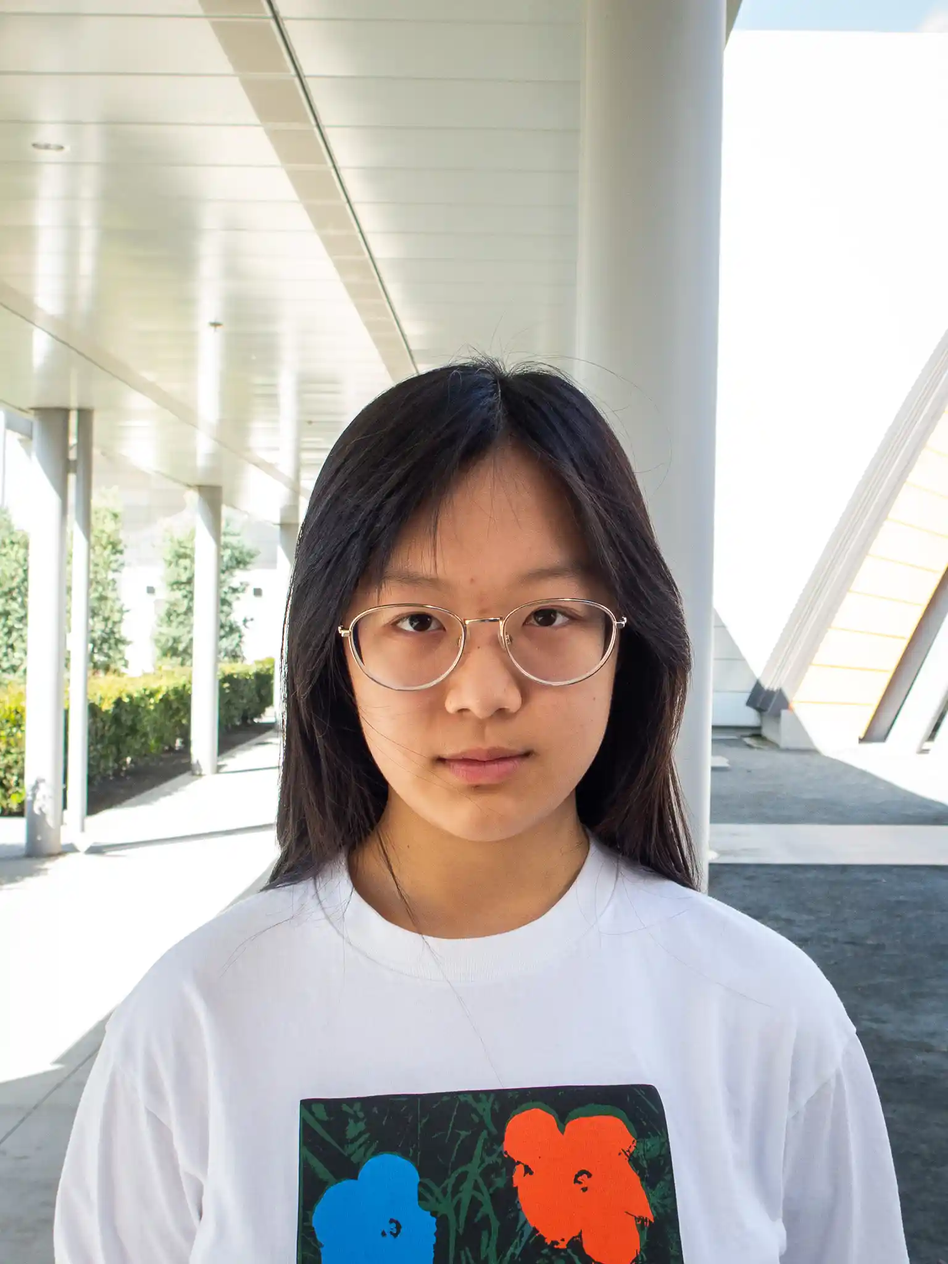
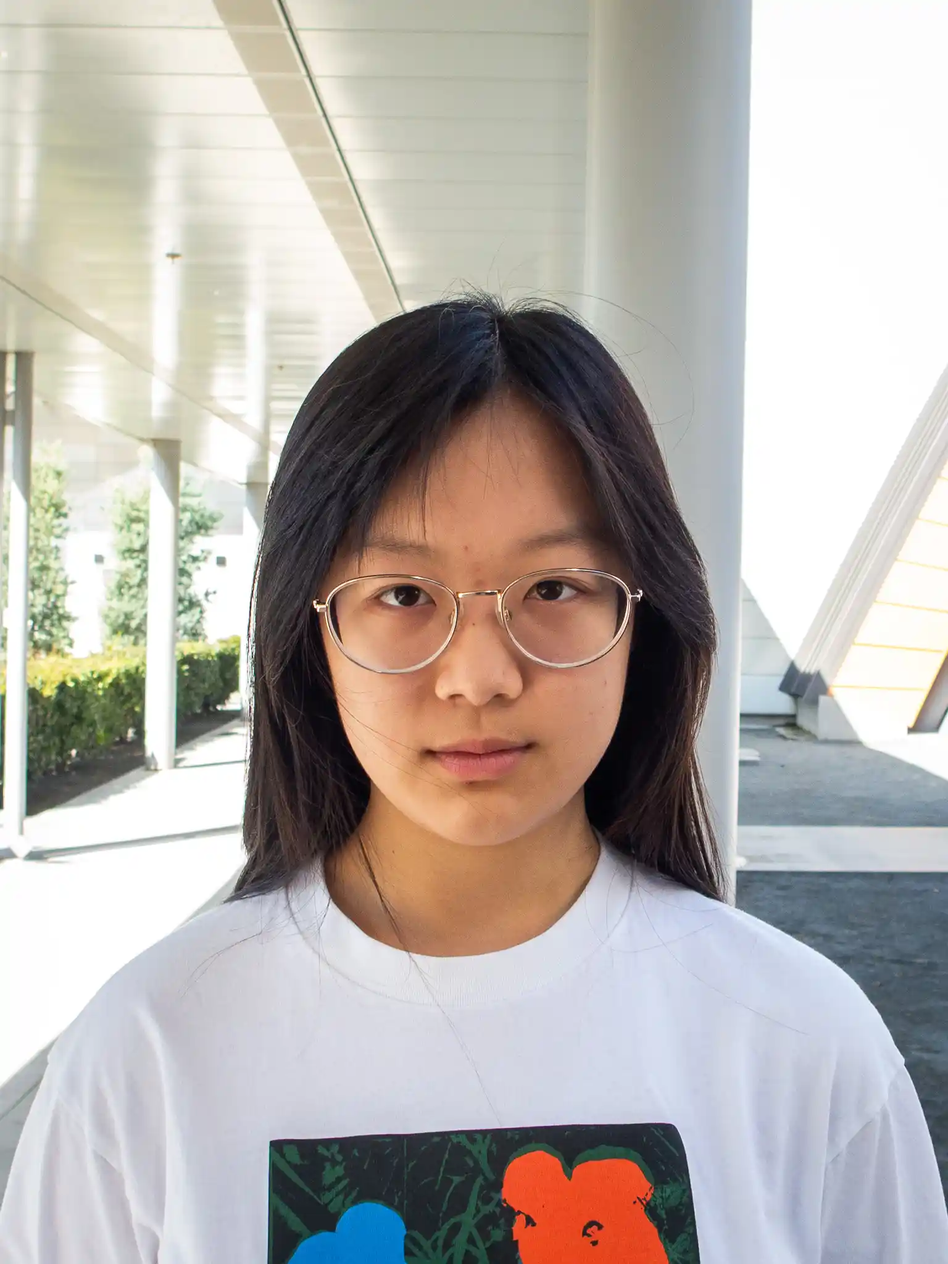
Add 11 headshots, 4 recropped, 3 survey responses

diff --git a/index.html b/index.html
@@ -1225,7 +1225,7 @@ function loadD3() {
 
 /* ── People with stock portrait images ── */
 const people = [
-  {img:'',name:'Nyala Ali',role:'_____ — _____',ig:'@_____',email:'',birthday:'',quote:'Dropped the wave runners now we run the wave',quoteBy:'goat',bio:'Nyala is committed to _____ for _____, planning to _____. Their favorite memory has been _____ and they will miss _____ the most. They are most excited for _____ in the next 10 years.'},
+  {img:'images/Headshots/Nyala A.webp',name:'Nyala Ali',role:'_____ — _____',ig:'@_____',email:'',birthday:'',quote:'Dropped the wave runners now we run the wave',quoteBy:'goat',bio:'Nyala is committed to _____ for _____, planning to _____. Their favorite memory has been _____ and they will miss _____ the most. They are most excited for _____ in the next 10 years.'},
   {img:'',name:'Janae Alsabti',role:'_____ — _____',ig:'@_____',email:'',birthday:'',quote:'Dropped the wave runners now we run the wave',quoteBy:'goat',bio:'Janae is committed to _____ for _____, planning to _____. Their favorite memory has been _____ and they will miss _____ the most. They are most excited for _____ in the next 10 years.'},
   {img:'images/Headshots/Omar A.webp',name:'Omar Anees',role:'_____ — _____',ig:'@_____',email:'',birthday:'',quote:'Dropped the wave runners now we run the wave',quoteBy:'goat',bio:'Omar is committed to _____ for _____, planning to _____. Their favorite memory has been _____ and they will miss _____ the most. They are most excited for _____ in the next 10 years.'},
   {img:'images/Headshots/Kai A.webp',name:'Kai Arellano',role:'IVC — Pre-Veterinary',ig:'@kai.arellano',email:'kaia4181@mytusd.org',birthday:'June 20, 2008',quote:'Obsession beats talent every time.',quoteBy:'Adam Sandler',bio:'Kai is headed to IVC, hoping to one day work as a veterinarian and open his own clinic. His favorite memory was the Los Alamos trip with the boys. He will miss hanging out and having fun in class with his friends the most.'},
@@ -1236,17 +1236,17 @@ const people = [
   {img:'images/Headshots/Andrew C.webp',name:'Andrew Camacho',role:'_____ — _____',ig:'@_____',email:'',birthday:'',quote:'Dropped the wave runners now we run the wave',quoteBy:'goat',bio:'Andrew is committed to _____ for _____, planning to _____. Their favorite memory has been _____ and they will miss _____ the most. They are most excited for _____ in the next 10 years.'},
   {img:'images/Headshots/Brandon Ca.webp',name:'Brandon Campos',role:'IVC — College',ig:'@brandoncamp.os',email:'brandonac4292@gmail.com',birthday:'September 16, 2008',quote:"Don't be a judger bro.",quoteBy:'Ken Carson',bio:"Brandon is committed to IVC, planning to transfer. His favorite memory was Kai vs. Jesiah. He will miss his friends the most and is most excited for traveling and exploring."},
   {img:'images/Headshots/Santiago C.webp',name:'Santiago Cardenas-Huerta',role:'IVC',ig:'@Santiago_cahu',email:'Santiagoc4183@mytusd.org',birthday:'April 26, 2008',quote:'God is absolutely above all, trust in Him and you\'ll end up where He wants you to be.',quoteBy:'',bio:'Santiago is committed to IVC, planning to get married, start a family, and achieve financial stability. His favorite memory was with the boys. He will miss the bonds and friendships he has built and is most excited to figure things out.'},
-  {img:'images/Headshots/Carson C.webp',name:'Carson Carter',role:'_____ — _____',ig:'@_____',email:'',birthday:'',quote:'Dropped the wave runners now we run the wave',quoteBy:'goat',bio:'Carson is committed to _____ for _____, planning to _____. Their favorite memory has been _____ and they will miss _____ the most. They are most excited for _____ in the next 10 years.'},
+  {img:'images/Headshots/Carson C.webp',name:'Carson Carter',role:'4 Year College — Business',ig:'@carsoniancarter',email:'carsonmaccarter@outlook.com',birthday:'February 13, 2008',quote:"Don't cry because it's over, smile because it happened",quoteBy:'Dr. Seuss',bio:"Carson is headed to a 4-year college, planning to major in business and eventually own a company or work in investment/consulting. His favorite memory was being in ASB. He will miss all his friends he talks to every day and is most excited for college life."},
   {img:'',name:'Rebecca Casillas',role:'_____ — _____',ig:'@_____',email:'',birthday:'',quote:'Dropped the wave runners now we run the wave',quoteBy:'goat',bio:'Rebecca is committed to _____ for _____, planning to _____. Their favorite memory has been _____ and they will miss _____ the most. They are most excited for _____ in the next 10 years.'},
   {img:'images/Headshots/Richard C.webp',name:'Richard Casillas',role:'_____ — _____',ig:'@_____',email:'',birthday:'',quote:'Dropped the wave runners now we run the wave',quoteBy:'goat',bio:'Richard is committed to _____ for _____, planning to _____. Their favorite memory has been _____ and they will miss _____ the most. They are most excited for _____ in the next 10 years.'},
   {img:'images/Headshots/Jayden C.webp',name:'Jayden Cerda',role:'IVC — Photography',ig:'@Vibewth.Jayden',email:'Cerdajay792@gmail.com',birthday:'July 27, 2008',quote:'You will never truly know the value of a moment until it becomes a memory',quoteBy:'',bio:'Jayden is committed to IVC, planning to become a photographer like Larry Chen — or a firefighter. His favorite memory was ESC. He will miss seeing his people every day and is most excited to stop waking up early for school.'},
-  {img:'',name:'Baran Cerrahoglu',role:'_____ — _____',ig:'@_____',email:'',birthday:'',quote:'Dropped the wave runners now we run the wave',quoteBy:'goat',bio:'Baran is committed to _____ for _____, planning to _____. Their favorite memory has been _____ and they will miss _____ the most. They are most excited for _____ in the next 10 years.'},
+  {img:'images/Headshots/Baran C.webp',name:'Baran Cerrahoglu',role:'_____ — _____',ig:'@_____',email:'',birthday:'',quote:'Dropped the wave runners now we run the wave',quoteBy:'goat',bio:'Baran is committed to _____ for _____, planning to _____. Their favorite memory has been _____ and they will miss _____ the most. They are most excited for _____ in the next 10 years.'},
   {img:'images/Headshots/Brandon Ch.webp',name:'Brandon Chang',role:'_____ — _____',ig:'@_____',email:'',birthday:'',quote:'Dropped the wave runners now we run the wave',quoteBy:'goat',bio:'Brandon is committed to _____ for _____, planning to _____. Their favorite memory has been _____ and they will miss _____ the most. They are most excited for _____ in the next 10 years.'},
   {img:'images/Headshots/Max C.webp',name:'Max Chang',role:'Community College — College',ig:'@maxiqad',email:'maxchang219@gmail.com',birthday:'May 25, 2008',quote:'Attendance was optional. So was I',quoteBy:'',bio:"Max is headed to community college, planning to finish and then travel the world. His favorite memory was pie-ing a senior. He will miss hanging with friends and is most excited for summer."},
   {img:'images/Headshots/Luna C.webp',name:'Luna Chen',role:'_____— _____',ig:'@_____',email:'',birthday:'',quote:'Dropped the wave runners now we run the wave',quoteBy:'goat',bio:'Luna is committed to _____ for _____, planning to _____. Their favorite memory has been _____ and they will miss _____ the most. They are most excited for _____ in the next 10 years.'},
   {img:'',name:'Ellie Chung',role:'_____ — _____',ig:'@_____',email:'',birthday:'',quote:'Dropped the wave runners now we run the wave',quoteBy:'goat',bio:'Ellie is committed to _____ for _____, planning to _____. Their favorite memory has been _____ and they will miss _____ the most. They are most excited for _____ in the next 10 years.'},
   {img:'images/Headshots/Matt C.webp',name:'Matt Ciecek',role:'_____ — _____',ig:'@_____',email:'',birthday:'',quote:'Dropped the wave runners now we run the wave',quoteBy:'goat',bio:'Matt is committed to _____ for _____, planning to _____. Their favorite memory has been _____ and they will miss _____ the most. They are most excited for _____ in the next 10 years.'},
-  {img:'',name:'Amani Clark',role:'College — University of Texas at Dallas',ig:'@dac_12.4',email:'amanic4060@mytusd.org',birthday:'October 24, 2007',quote:'Keep trying and if you can\'t come up with a solution, game until one comes to you.',quoteBy:'',bio:'Amani is headed to the University of Texas at Dallas, planning to go into business and land a solid job. His favorite memory was karaoke at lunch. He will miss his friends the most and is most excited to make brisket and kick off a new chapter in college.'},
+  {img:'images/Headshots/Amani C.webp',name:'Amani Clark',role:'College — University of Texas at Dallas',ig:'@dac_12.4',email:'amanic4060@mytusd.org',birthday:'October 24, 2007',quote:'Keep trying and if you can\'t come up with a solution, game until one comes to you.',quoteBy:'',bio:'Amani is headed to the University of Texas at Dallas, planning to go into business and land a solid job. His favorite memory was karaoke at lunch. He will miss his friends the most and is most excited to make brisket and kick off a new chapter in college.'},
   {img:'images/Headshots/Christopher C.webp',name:'Chris Cowdell',role:'LDS Mission → IVC / UCI — Storytelling',ig:'@chrisandwich_crc',email:'christopherc3090@mytusd.org',birthday:'April 18, 2007',quote:'Being weak is nothing to be ashamed of. Staying weak is.',quoteBy:'',bio:'Chris is departing on a two-year mission for the Church of Jesus Christ of Latter-Day Saints after graduation, then plans to attend college — possibly on a track and field scholarship, or IVC then UCI, pursuing the art of storytelling. His favorite memory was educating students in the weight room through the Fitness Together club. He will miss the teachers and friends he got to know and is most excited to finally tell the stories he has been writing for over eight years.'},
   {img:'',name:'Marie-France Demuro',role:'Community College',ig:'@deffinetly_not_marie',email:'marie-franced2621@mytusd.org',birthday:'April 14, 2008',quote:'From you, 4 years ago.',quoteBy:'',bio:'Marie-France is heading to community college, unsure of exactly what or where, but certain she will be happy doing what feels right. Her favorite memory was realizing she actually has things to contribute. She will miss the sense of familiarity she built but is ready for a new environment and new opportunities.'},
   {img:'',name:'Jianna DiLellio',role:'UCI — Communication',ig:'@jiannad8',email:'jidilellio@gmail.com',birthday:'July 26, 2008',quote:'Sometimes you don\'t know the value of a moment until it becomes a memory.',quoteBy:'',bio:'Jianna is committed to UCI, planning to find a career and build her independence. Her favorite memory was Senior Sunrise. She will miss the teachers and students the most and is most excited for gaining independence and exploring topics she\'s passionate about.'},
@@ -1261,7 +1261,7 @@ const people = [
   {img:'images/Headshots/Michael H.webp',name:'Michael Hsieh',role:'UCSD — Pre-Med',ig:'@codeblue888',email:'michaelh4536@mytusd.org',birthday:'September 14, 2008',quote:'Fun\'s in the challenge',quoteBy:'',bio:'Michael is committed to UCSD, planning for medical residency (or the homeless life). His favorite memory was making jokes in Mrs. Byun\'s Algebra class with his friends. He will miss seeing friends daily and is most excited for new experiences and growth.'},
   {img:'images/Headshots/Matthew I.webp',name:'Matthew Ibarra',role:'_____ — _____',ig:'@_____',email:'',birthday:'',quote:'Dropped the wave runners now we run the wave',quoteBy:'goat',bio:'Matthew is committed to _____ for _____, planning to _____. Their favorite memory has been _____ and they will miss _____ the most. They are most excited for _____ in the next 10 years.'},
   {img:'',name:'Danya Ibrahim',role:'_____ — _____',ig:'@_____',email:'',birthday:'',quote:'Dropped the wave runners now we run the wave',quoteBy:'goat',bio:'Danya is committed to _____ for _____, planning to _____. Their favorite memory has been _____ and they will miss _____ the most. They are most excited for _____ in the next 10 years.'},
-  {img:'',name:'Amreen Islam',role:'UCLA — Pre-Law',ig:'@amreenn.i',email:'amreenislam75@gmail.com',birthday:'September 19, 2008',quote:'Everything happens for a reason',quoteBy:'',bio:'Amreen is committed to UCLA, planning to go to law school and become a lawyer or work with the government. Her favorite memory was walking around during class and hanging out at pep rallies. She will miss her friends the most and is most excited to meet new people.'},
+  {img:'images/Headshots/Amreen I.webp',name:'Amreen Islam',role:'UCLA — Pre-Law',ig:'@amreenn.i',email:'amreenislam75@gmail.com',birthday:'September 19, 2008',quote:'Everything happens for a reason',quoteBy:'',bio:'Amreen is committed to UCLA, planning to go to law school and become a lawyer or work with the government. Her favorite memory was walking around during class and hanging out at pep rallies. She will miss her friends the most and is most excited to meet new people.'},
   {img:'images/Headshots/Farishta I.webp',name:'Farishta Islam',role:'_____ — _____',ig:'@_____',email:'',birthday:'',quote:'Dropped the wave runners now we run the wave',quoteBy:'goat',bio:'Farishta is committed to _____ for _____, planning to _____. Their favorite memory has been _____ and they will miss _____ the most. They are most excited for _____ in the next 10 years.'},
   {img:'',name:'Uma Joshi',role:'_____ — _____',ig:'@_____',email:'',birthday:'',quote:'Dropped the wave runners now we run the wave',quoteBy:'goat',bio:'Uma is committed to _____ for _____, planning to _____. Their favorite memory has been _____ and they will miss _____ the most. They are most excited for _____ in the next 10 years.'},
   {img:'images/Headshots/Josh K.webp',name:'Josh Kim',role:'_____ — _____',ig:'@_____',email:'',birthday:'',quote:'Dropped the wave runners now we run the wave',quoteBy:'goat',bio:'Josh is committed to _____ for _____, planning to _____. Their favorite memory has been _____ and they will miss _____ the most. They are most excited for _____ in the next 10 years.'},
@@ -1271,8 +1271,8 @@ const people = [
   {img:'images/Headshots/Audrey L.webp',name:'Audrey Lee',role:'4 Year College — USC',ig:'@aud._lee',email:'audreyl6276@mytusd.org',birthday:'September 24, 2007',quote:'The world is more malleable than you think, and it\'s waiting for you to hammer it into shape.',quoteBy:'Bono',bio:'Audrey is headed to USC, planning to travel after graduation and live an emotionally fulfilling, socially impactful life. Her favorite memory was blasting music in the van to and from Bako with her friends and Mr. Moe. She will miss her teachers the most and is most excited to live in LA.'},
   {img:'images/Headshots/Brent L.webp',name:'Brent Limbo',role:'IVC → UCI — Engineering',ig:'@brentywho',email:'brentl2081@mytusd.org',birthday:'August 4, 2007',quote:'Don\'t lose focus.',quoteBy:'',bio:'Brent is headed to IVC with plans to transfer to UCI, aiming for a career in engineering — whether leading construction projects or doing quality maintenance work on machinery. His favorite memory was escaping point break with Sacha and Nathan. He will miss James the most.'},
   {img:'images/Headshots/Katally L.webp',name:'Katally Lin',role:'_____ — _____',ig:'@_____',email:'',birthday:'',quote:'Dropped the wave runners now we run the wave',quoteBy:'goat',bio:'Katally is committed to _____ for _____, planning to _____. Their favorite memory has been _____ and they will miss _____ the most. They are most excited for _____ in the next 10 years.'},
-  {img:'',name:'Ava Lorenzana',role:'_____ — _____',ig:'@_____',email:'',birthday:'',quote:'Dropped the wave runners now we run the wave',quoteBy:'goat',bio:'Ava is committed to _____ for _____, planning to _____. Their favorite memory has been _____ and they will miss _____ the most. They are most excited for _____ in the next 10 years.'},
-  {img:'',name:'Milo Madolora',role:'Kababayan at LMA Founder',ig:'@milomadatu',email:'milomadatu@gmail.com',birthday:'April 17, 2008',quote:'Everything I\'m not made me everything I am',quoteBy:'Ye',bio:'Milo Madolora is 99% committed to Northeastern University for Business Administration, planning to find a career in marketing. His favorite memory has been making beats in Mr. Jones\'s class and he will miss walking around the school with his friends the most. Milo is most excited for new experiences in the next 10 years.'},
+  {img:'images/Headshots/Ava L.webp',name:'Ava Lorenzana',role:'_____ — _____',ig:'@_____',email:'',birthday:'',quote:'Dropped the wave runners now we run the wave',quoteBy:'goat',bio:'Ava is committed to _____ for _____, planning to _____. Their favorite memory has been _____ and they will miss _____ the most. They are most excited for _____ in the next 10 years.'},
+  {img:'images/Headshots/Milo M.webp',name:'Milo Madolora',role:'Kababayan at LMA Founder',ig:'@milomadatu',email:'milomadatu@gmail.com',birthday:'April 17, 2008',quote:'Everything I\'m not made me everything I am',quoteBy:'Ye',bio:'Milo Madolora is 99% committed to Northeastern University for Business Administration, planning to find a career in marketing. His favorite memory has been making beats in Mr. Jones\'s class and he will miss walking around the school with his friends the most. Milo is most excited for new experiences in the next 10 years.'},
   {img:'images/Headshots/Murad M.webp',name:'Murad Malik',role:'_____ — _____',ig:'@_____',email:'',birthday:'',quote:'Dropped the wave runners now we run the wave',quoteBy:'goat',bio:'Murad is committed to _____ for _____, planning to _____. Their favorite memory has been _____ and they will miss _____ the most. They are most excited for _____ in the next 10 years.'},
   {img:'images/Headshots/Aryanna M.webp',name:'Aryanna Martinez',role:'_____ — _____',ig:'@_____',email:'',birthday:'',quote:'Dropped the wave runners now we run the wave',quoteBy:'goat',bio:'Ary is committed to _____ for _____, planning to _____. Their favorite memory has been _____ and they will miss _____ the most. They are most excited for _____ in the next 10 years.'},
   {img:'images/Headshots/Cooper M.webp',name:'Cooper Mayhew',role:'Embry-Riddle Aeronautical University',ig:'@_____',email:'cooperm4484@mytusd.org',birthday:'',quote:'Dropped the wave runners now we run the wave',quoteBy:'goat',bio:'Cooper is committed to Embry-Riddle Aeronautical University (Prescott Campus).'},
@@ -1286,9 +1286,9 @@ const people = [
   {img:'images/Headshots/Shirom M.webp',name:'Shirom Mukherjee',role:'_____ — _____',ig:'@_____',email:'',birthday:'',quote:'Dropped the wave runners now we run the wave',quoteBy:'goat',bio:'Shirom is committed to _____ for _____, planning to _____. Their favorite memory has been _____ and they will miss _____ the most. They are most excited for _____ in the next 10 years.'},
   {img:'images/Headshots/Jeromy M.webp',name:'Jeromy Munguia',role:'_____ — _____',ig:'@_____',email:'',birthday:'',quote:'Dropped the wave runners now we run the wave',quoteBy:'goat',bio:'Jeromy is committed to _____ for _____, planning to _____. Their favorite memory has been _____ and they will miss _____ the most. They are most excited for _____ in the next 10 years.'},
   {img:'images/Headshots/Samana N.webp',name:'Samana Nadig',role:'_____ — _____',ig:'@_____',email:'',birthday:'',quote:'Dropped the wave runners now we run the wave',quoteBy:'goat',bio:'Samana is committed to _____ for _____, planning to _____. Their favorite memory has been _____ and they will miss _____ the most. They are most excited for _____ in the next 10 years.'},
-  {img:'',name:'Evelynn Ngo',role:'_____ — _____',ig:'@_____',email:'',birthday:'',quote:'Dropped the wave runners now we run the wave',quoteBy:'goat',bio:'Evelynn is committed to _____ for _____, planning to _____. Their favorite memory has been _____ and they will miss _____ the most. They are most excited for _____ in the next 10 years.'},
+  {img:'images/Headshots/Evelynn N.webp',name:'Evelynn Ngo',role:'_____ — _____',ig:'@_____',email:'',birthday:'',quote:'Dropped the wave runners now we run the wave',quoteBy:'goat',bio:'Evelynn is committed to _____ for _____, planning to _____. Their favorite memory has been _____ and they will miss _____ the most. They are most excited for _____ in the next 10 years.'},
   {img:'images/Headshots/Mason N.webp',name:'Mason Nguyen',role:'Cal State Fullerton — Accounting',ig:'@mason_rnguyen',email:'itsmemason18@gmail.com',birthday:'April 14, 2008',quote:'You cannot control when life knocks you down. But you can control when to get back up.',quoteBy:'',bio:'Mason is committed to Cal State Fullerton majoring in accounting, planning to attend grad school to convert into data science and build a career in performance marketing and AI. His favorite memory was running around with Matt C during senior assassin and almost pulling his hamstring. He will miss his friends and teachers and is most excited to move on to the next chapter.'},
-  {img:'images/Headshots/Jayden O.webp',name:'Jayden Ohashi',role:'_____ — _____',ig:'@_____',email:'',birthday:'',quote:'Dropped the wave runners now we run the wave',quoteBy:'goat',bio:'Jayden is committed to _____ for _____, planning to _____. Their favorite memory has been _____ and they will miss _____ the most. They are most excited for _____ in the next 10 years.'},
+  {img:'images/Headshots/Jayden O.webp',name:'Jayden Ohashi',role:'IVC — Medical Imaging',ig:'@jayden_ohashi21',email:'ohashijayden21@gmail.com',birthday:'May 21, 2008',quote:'Stay hard.',quoteBy:'',bio:"Jayden is taking a gap year to pursue college volleyball — if that doesn't pan out, he's headed to IVC to study medical imaging. His favorite memory was Sacha doing his thing in the parking lot. He will miss the friends he made along the way and is most excited to pursue his dreams."},
   {img:'images/Headshots/Sacha P.webp',name:'Sacha Papadakis',role:'SDSU — Sales',ig:'@sachawhen',email:'sachap4791@mytusd.org',birthday:'June 16, 2008',quote:'Ok you the king? Burger king.',quoteBy:'',bio:'Sacha is committed to SDSU, planning to go into sales. His favorite memory was the Muslims vs Christians basketball game. He will miss Milo the most.'},
   {img:'',name:'Nima Partow',role:'_____ — _____',ig:'@_____',email:'',birthday:'',quote:'Dropped the wave runners now we run the wave',quoteBy:'goat',bio:'Nima is committed to _____ for _____, planning to _____. Their favorite memory has been _____ and they will miss _____ the most. They are most excited for _____ in the next 10 years.'},
   {img:'images/Headshots/Connor P.webp',name:'Connor Paxton',role:'_____ — _____',ig:'@_____',email:'',birthday:'',quote:'Dropped the wave runners now we run the wave',quoteBy:'goat',bio:'Connor is committed to _____ for _____, planning to _____. Their favorite memory has been _____ and they will miss _____ the most. They are most excited for _____ in the next 10 years.'},
@@ -1296,13 +1296,13 @@ const people = [
   {img:'images/Headshots/Seth P.webp',name:'Seth Pham',role:'_____ — _____',ig:'@_____',email:'',birthday:'',quote:'Dropped the wave runners now we run the wave',quoteBy:'goat',bio:'Seth is committed to _____ for _____, planning to _____. Their favorite memory has been _____ and they will miss _____ the most. They are most excited for _____ in the next 10 years.'},
   {img:'images/Headshots/Kiyomi P.webp',name:'Kiyomi Pizarro',role:'_____ — _____',ig:'@_____',email:'',birthday:'',quote:'Dropped the wave runners now we run the wave',quoteBy:'goat',bio:'Kiyomi is committed to _____ for _____, planning to _____. Their favorite memory has been _____ and they will miss _____ the most. They are most excited for _____ in the next 10 years.'},
   {img:'',name:'Aiza Qureshi',role:'_____ — _____',ig:'@_____',email:'',birthday:'',quote:'Dropped the wave runners now we run the wave',quoteBy:'goat',bio:'Aiza is committed to _____ for _____, planning to _____. Their favorite memory has been _____ and they will miss _____ the most. They are most excited for _____ in the next 10 years.'},
-  {img:'https://media.licdn.com/dms/image/v2/D4E03AQEJB8NVvyanBg/profile-displayphoto-shrink_200_200/profile-displayphoto-shrink_200_200/0/1726208211125?e=2147483647&v=beta&t=BV1Eix_RjkDMIU3LPjpib-XFGHNnoKZH-bCoegaXGaM',name:'Artin Rastegar',role:'UC Berkeley — Business Administration',ig:'@artin_4097',email:'',birthday:'Jan 30, 2008',quote:'Dropped the wave runners now we run the wave',quoteBy:'goat',bio:'Artin Rastegar is committed to UC Berkeley for Business Administration, planning to _____. His favorite memory has been ____ and he will miss _____ the most. Artin is most excited for ____ in the next 10 years.'},
+  {img:'images/Headshots/Artin R.webp',name:'Artin Rastegar',role:'UC Berkeley — Entrepreneurship',ig:'@artin_4097',email:'artinrastegar3@gmail.com',birthday:'August 13, 2007',quote:'When the tough gets tough, the tough gets going.',quoteBy:'',bio:'Artin is committed to UC Berkeley, majoring in Entrepreneurship, planning to become an affluent venture capitalist and startup founder. His favorite memory was putting on music and playing ping pong at the gym. He will miss his classmates and teachers the most and is most excited to socialize and meet new people.'},
   {img:'images/Headshots/Rayan R.webp',name:'Rayan Rouhizad',role:'IVC → UC — Data Science',ig:'@nbgr4yan',email:'rayanrouhizad111@gmail.com',birthday:'June 25, 2008',quote:'Not every day is a good day, but there\'s good in every day.',quoteBy:'',bio:'Rayan is committed to IVC, planning to transfer to a UC for Data Science, then get his MBA and work in marketing or AI. His favorite memory was the multicultural fair — they last-minute left school to buy all the ingredients the day of, with seniors helping make the food. He will miss having something to do every day and ditching class to walk around campus with his friends.'},
   {img:'images/Headshots/Jackson R.webp',name:'Jackson Rowland',role:'Santa Ana College — Welding',ig:'',email:'jacksonr5591@mytusd.org',birthday:'December 16, 2007',quote:'There are things in this world that you\'re not meant to see, however if you are able to grasp such a thing then go for it!',quoteBy:'',bio:'Jackson is headed to Santa Ana College to study welding, with plans to weld and build a game on the side — and a few more things he\'s keeping to himself. His favorite memory was all of them. He has no regrets and is ready for whatever comes next.'},
   {img:'images/Headshots/Santino S.webp',name:'Santino Sebastian Salonga',role:'_____ — _____',ig:'@_____',email:'',birthday:'',quote:'Dropped the wave runners now we run the wave',quoteBy:'goat',bio:'Santino is committed to _____ for _____, planning to _____. Their favorite memory has been _____ and they will miss _____ the most. They are most excited for _____ in the next 10 years.'},
   {img:'images/Headshots/Josh S.webp',name:'Joshua Saltzer',role:'IVC — College',ig:'@joshuasaltzer',email:'joshuas2412@mytusd.org',birthday:'February 5, 2008',quote:'Spealing is optional',quoteBy:'',bio:'Joshua is committed to IVC, planning to work a steady job and live life wherever it takes him. His favorite memories were making friends, turning 18 to sign out early, and Music Tech with Mr. Jones. He will miss all the friends he made at Legacy the most.'},
   {img:'images/Headshots/Nathan S.webp',name:'Nathan Saltzer',role:'_____ — _____',ig:'@_____',email:'',birthday:'',quote:'Dropped the wave runners now we run the wave',quoteBy:'goat',bio:'Nathan is committed to _____ for _____, planning to _____. Their favorite memory has been _____ and they will miss _____ the most. They are most excited for _____ in the next 10 years.'},
-  {img:'',name:'Ella Schubert',role:'_____ — _____',ig:'@_____',email:'',birthday:'',quote:'Dropped the wave runners now we run the wave',quoteBy:'goat',bio:'Ella is committed to _____ for _____, planning to _____. Their favorite memory has been _____ and they will miss _____ the most. They are most excited for _____ in the next 10 years.'},
+  {img:'images/Headshots/Ella S.webp',name:'Ella Schubert',role:'_____ — _____',ig:'@_____',email:'',birthday:'',quote:'Dropped the wave runners now we run the wave',quoteBy:'goat',bio:'Ella is committed to _____ for _____, planning to _____. Their favorite memory has been _____ and they will miss _____ the most. They are most excited for _____ in the next 10 years.'},
   {img:'',name:'Iffah Sheikh',role:'_____ — _____',ig:'@_____',email:'',birthday:'',quote:'Dropped the wave runners now we run the wave',quoteBy:'goat',bio:'Iffah is committed to _____ for _____, planning to _____. Their favorite memory has been _____ and they will miss _____ the most. They are most excited for _____ in the next 10 years.'},
   {img:'',name:'Arnav Sheth',role:'4 Year College — Stanford',ig:'@arnav.sheth19',email:'arnavs5585@mytusd.org',birthday:'November 19, 2007',quote:'',quoteBy:'',bio:'Arnav is headed to Stanford, planning to launch a Y-Combinator startup with Artin Rastegar. His favorite memory was Music Tech class. He is most excited to dive into robotics and explore new opportunities.'},
   {img:'images/Headshots/Nancy S.webp',name:'Nancy Silva',role:'University of San Francisco',ig:'@nancesilvaa',email:'nancysilv1231@gmail.com',birthday:'December 30, 2007',quote:'The question isn\'t what are we going to do — the question is what aren\'t we going to do?',quoteBy:'Ferris Bueller',bio:'Nancy is committed to the University of San Francisco, planning to move to SF for college. In ten years she pictures herself in San Diego — married, beachside, with some chickens. Her favorite memory was with Alice Nguyen. She will miss the weekly "Sneakyboo" hangouts and the perfect 80-degree weather most, and is most excited to become a local at a new café and order "the usual."'},
@@ -1323,8 +1323,8 @@ const people = [
   {img:'',name:'Eden Woods',role:'_____ — _____',ig:'@_____',email:'',birthday:'',quote:'Dropped the wave runners now we run the wave',quoteBy:'goat',bio:'Eden is committed to _____ for _____, planning to _____. Their favorite memory has been _____ and they will miss _____ the most. They are most excited for _____ in the next 10 years.'},
   {img:'images/Headshots/Logan W.webp',name:'Logan Woods',role:'_____ — _____',ig:'@_____',email:'',birthday:'',quote:'Dropped the wave runners now we run the wave',quoteBy:'goat',bio:'Logan is committed to _____ for _____, planning to _____. Their favorite memory has been _____ and they will miss _____ the most. They are most excited for _____ in the next 10 years.'},
   {img:'images/Headshots/Ryan Y.webp',name:'Ryan Yahn',role:'_____ — _____',ig:'@_____',email:'',birthday:'',quote:'Dropped the wave runners now we run the wave',quoteBy:'goat',bio:'Ryan is committed to _____ for _____, planning to _____. Their favorite memory has been _____ and they will miss _____ the most. They are most excited for _____ in the next 10 years.'},
-  {img:'',name:'Miriam Yassa',role:'_____ — _____',ig:'@_____',email:'',birthday:'',quote:'Dropped the wave runners now we run the wave',quoteBy:'goat',bio:'Miriam is committed to _____ for _____, planning to _____. Their favorite memory has been _____ and they will miss _____ the most. They are most excited for _____ in the next 10 years.'},
-  {img:'',name:'Ruth Zhang',role:'_____ — _____',ig:'@_____',email:'',birthday:'',quote:'Dropped the wave runners now we run the wave',quoteBy:'goat',bio:'Ruth is committed to _____ for _____, planning to _____. Their favorite memory has been _____ and they will miss _____ the most. They are most excited for _____ in the next 10 years.'},
+  {img:'images/Headshots/Miriam Y.webp',name:'Miriam Yassa',role:'_____ — _____',ig:'@_____',email:'',birthday:'',quote:'Dropped the wave runners now we run the wave',quoteBy:'goat',bio:'Miriam is committed to _____ for _____, planning to _____. Their favorite memory has been _____ and they will miss _____ the most. They are most excited for _____ in the next 10 years.'},
+  {img:'images/Headshots/Ruth Z.webp',name:'Ruth Zhang',role:'_____ — _____',ig:'@_____',email:'',birthday:'',quote:'Dropped the wave runners now we run the wave',quoteBy:'goat',bio:'Ruth is committed to _____ for _____, planning to _____. Their favorite memory has been _____ and they will miss _____ the most. They are most excited for _____ in the next 10 years.'},
 ];
 
 let popupOrder = [], popupIdx = -1;
@@ -1694,7 +1694,8 @@ function checkPaywall() {
 const SURVEY_DATA = {
   wordCloud: [
     {text:'LMA',value:30},{text:"'26",value:32},{text:'Community',value:24},{text:'Family',value:22},{text:'Leaders',value:18},
-    {text:'Unique',value:22},{text:'Chud',value:20},{text:'Interesting',value:20},{text:'Chill',value:20},
+    {text:'Unique',value:24},{text:'Chud',value:20},{text:'Interesting',value:20},{text:'Chill',value:20},
+    {text:'Stellar',value:6},{text:'Mid',value:6},
     {text:'Inspiring',value:16},{text:'Innovative',value:16},{text:'Connected',value:15},
     {text:'Nostalgic',value:15},{text:'Transformative',value:14},{text:'Goofy',value:14},
     {text:'Modest',value:13},{text:'Painful',value:13},{text:'Open',value:13},
